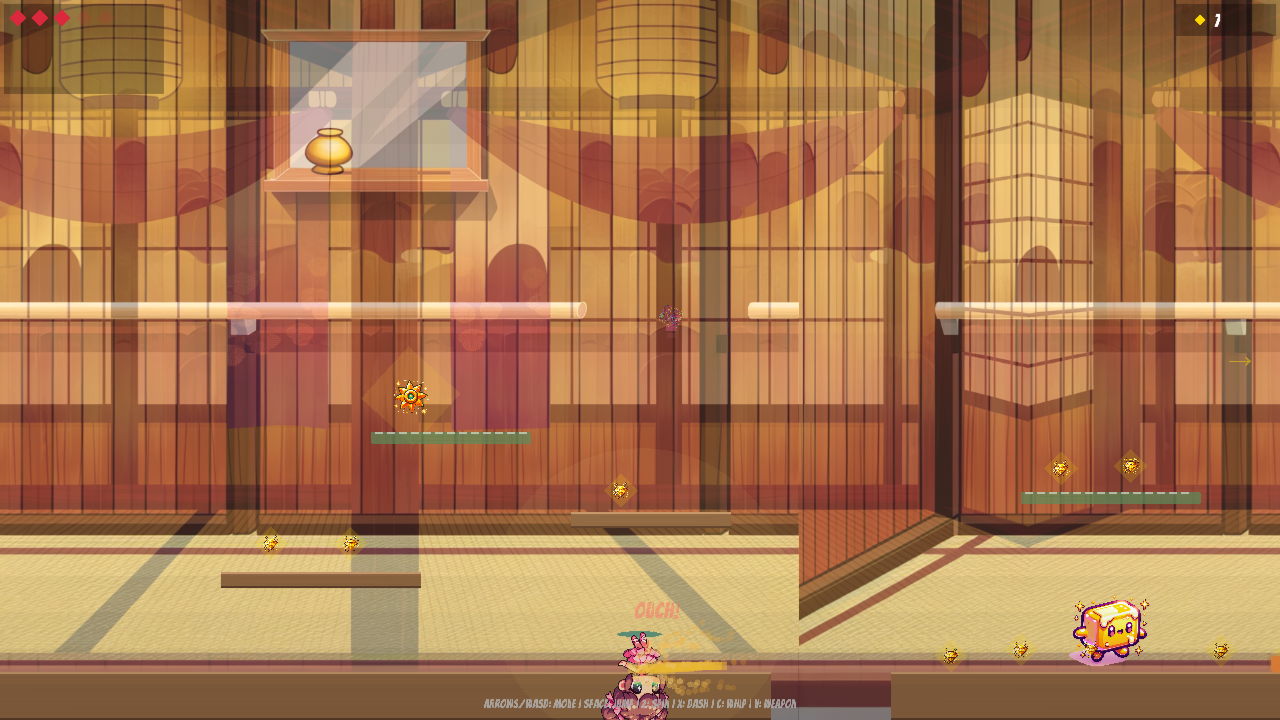
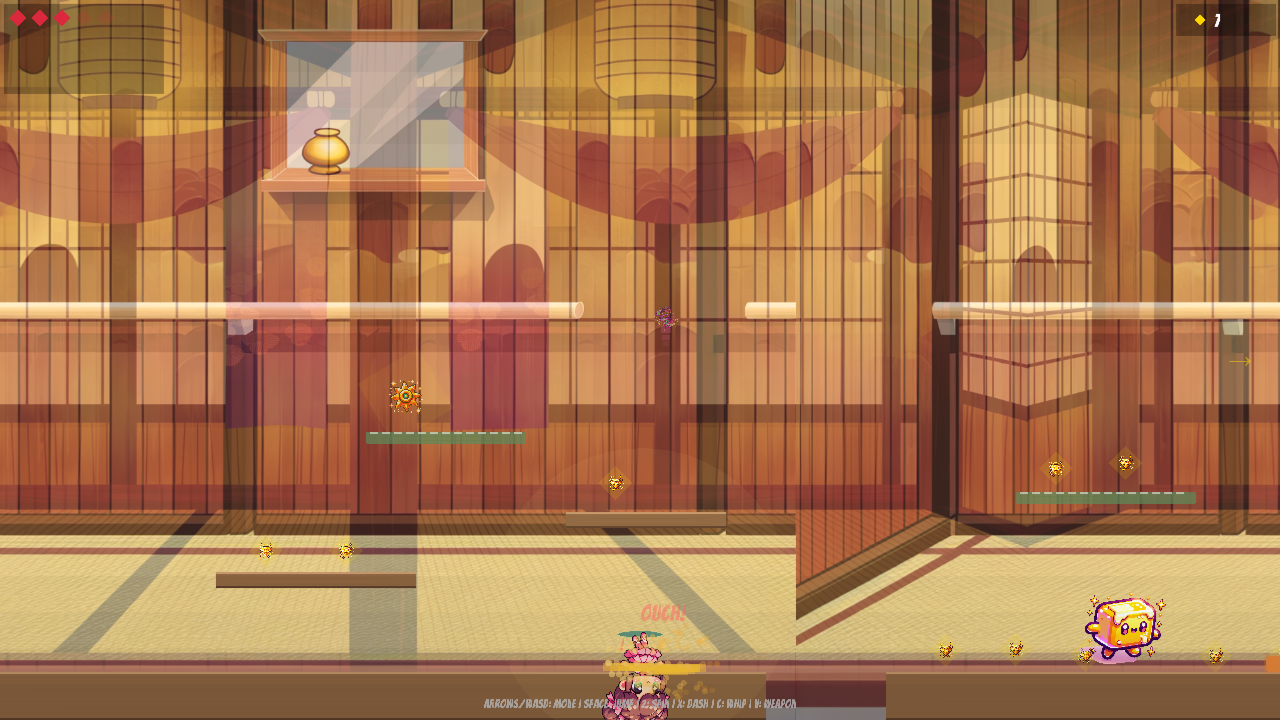
Checkpoints, skippable intro, softened mid-level spike
Three fixes driven by the iter-7 kid playtest ceiling.

Checkpoints:
- New CheckpointData type and levelData.checkpoints[] field
- Loader tracks a mutable currentSpawn that respawn logic reads (void
  fall handler and enemy-contact hitPlayer both now use it instead of
  levelData.playerSpawn)
- spawnCheckpoint renders a pole with a gray banner that turns gold on
  first touch, emits a CHECKPOINT! pop and a sparkle burst
- Hitbox is 80w x 160h so a jumping player mid-arc still intersects
- Level 1 placed checkpoints at x=1600 and x=1880 so the mid-level spike
  no longer sends you back to x=200

Intro flow:
- Cutscene: Escape now fully skips to the next scene instead of advancing
  one frame at a time; skip hint updated to 'SPACE/ENTER: next  ESC: skip'
- Title prompt: 'Press SPACE or ENTER to Start' (kid kept pressing Enter
  and wondering if it worked)

Mid-level difficulty:
- Narrow mid platforms widened: x=1900 w=180 → x=1880 w=240, and
  x=2200 w=160 → x=2180 w=220. Lands dash-jumps without precision-tapping.

Kid verified 8.5/10 (up from 7.6). All 32 regression checks still pass.

diff --git a/src/levels/loader.ts b/src/levels/loader.ts
@@ -4,7 +4,7 @@ import { createButterPat, createGlutenBlob, createSyrupDripper, createMilkCarton
 import { createNinjaPowerup, createSequin, createWeaponPickup, createRibbon } from "../entities/pickups"
 import { hitPlayer } from "../components/health"
 import { edgeFlash, popText } from "../components/effects"
-import type { LevelData, PlatformData, EnemySpawn, PickupSpawn, DestructibleData } from "./level1"
+import type { LevelData, PlatformData, EnemySpawn, PickupSpawn, DestructibleData, CheckpointData } from "./level1"
 
 function spawnPlatform(p: PlatformData) {
   if (p.type === "swing") {
@@ -192,6 +192,17 @@ export default function loadLevel(levelData: LevelData, levelId: string = "level
 
   const player = createPlayer(levelData.playerSpawn.x, levelData.playerSpawn.y)
 
+  // Active respawn point — updated when the player touches a checkpoint.
+  const currentSpawn = { x: levelData.playerSpawn.x, y: levelData.playerSpawn.y }
+
+  // Spawn checkpoint flags. A flag is a tall pole with a banner that turns
+  // gold once activated. Touching it updates currentSpawn and plays a pop.
+  if (levelData.checkpoints) {
+    for (const cp of levelData.checkpoints) {
+      spawnCheckpoint(cp, currentSpawn)
+    }
+  }
+
   // One-way platform logic: disable collision when player is clearly below
   player.onBeforePhysicsResolve((col: any) => {
     if (col.target.is("one-way")) {
@@ -248,11 +259,12 @@ export default function loadLevel(levelData: LevelData, levelId: string = "level
       // cannot re-fire on subsequent frames while the death animation
       // plays, then force-respawn bypassing invincibility/state checks so
       // a dash-clip or lingering invincible flag can't trap the player.
-      player.pos.x = levelData.playerSpawn.x
-      player.pos.y = levelData.playerSpawn.y
+      // Respawn at the active checkpoint, not the level start.
+      player.pos.x = currentSpawn.x
+      player.pos.y = currentSpawn.y
       player.vel.x = 0
       player.vel.y = 0
-      hitPlayer(player, levelData.playerSpawn.x, levelData.playerSpawn.y, levelId, true)
+      hitPlayer(player, currentSpawn.x, currentSpawn.y, levelId, true)
       return
     }
     // Horizontal bounds
@@ -371,7 +383,7 @@ export default function loadLevel(levelData: LevelData, levelId: string = "level
     // Otherwise take damage
     edgeFlash(255, 60, 60) // red = took damage
     popText(player.pos.x, player.pos.y - 40, "OUCH!", [255, 100, 100], 22)
-    hitPlayer(player, levelData.playerSpawn.x, levelData.playerSpawn.y)
+    hitPlayer(player, currentSpawn.x, currentSpawn.y)
   })
 
   // Slippery patch effect: active while overlapping
@@ -432,6 +444,63 @@ function spawnPickup(p: PickupSpawn) {
     case "katana": return createWeaponPickup(p.x, p.y, "katana")
     case "sais": return createWeaponPickup(p.x, p.y, "sais")
   }
+}
+
+function spawnCheckpoint(cp: CheckpointData, currentSpawn: { x: number; y: number }) {
+  // Pole
+  const pole = add([
+    rect(6, 90),
+    pos(cp.x, cp.y),
+    // Generous hitbox: 80 wide x 160 tall, centered on the pole, so a
+    // jumping player mid-arc still intersects even when their feet clear
+    // the pole base.
+    area({ shape: new Rect(vec2(-40, -160), 80, 160) }),
+    anchor("bot"),
+    color(80, 80, 100),
+    "checkpoint",
+    { activated: false },
+  ])
+  // Banner — starts gray, turns gold on activation
+  const banner = pole.add([
+    rect(28, 18, { radius: 2 }),
+    pos(3, -82),
+    color(160, 160, 170),
+    anchor("left"),
+    rotate(0),
+  ])
+  // Gentle wave
+  banner.onUpdate(() => {
+    banner.angle = Math.sin(time() * 2.5) * 6
+  })
+
+  pole.onCollide("player", () => {
+    if (pole.activated) return
+    pole.activated = true
+    banner.color = rgb(255, 215, 0)
+    currentSpawn.x = cp.x
+    currentSpawn.y = cp.y
+    popText(cp.x, cp.y - 110, "CHECKPOINT!", [255, 215, 0], 22)
+    // Sparkle burst
+    for (let i = 0; i < 10; i++) {
+      const angle = (i / 10) * Math.PI * 2
+      const spd = 80 + Math.random() * 40
+      const sp = add([
+        circle(2),
+        pos(cp.x, cp.y - 80),
+        color(255, 215, 0),
+        opacity(1),
+        z(60),
+      ])
+      let age = 0
+      sp.onUpdate(() => {
+        age += dt()
+        sp.pos.x += Math.cos(angle) * spd * dt()
+        sp.pos.y += Math.sin(angle) * spd * dt()
+        sp.opacity = Math.max(0, 1 - age * 2.5)
+        if (sp.opacity <= 0) destroy(sp)
+      })
+    }
+  })
 }
 
 function spawnDestructible(d: DestructibleData) {

diff --git a/src/levels/level1.ts b/src/levels/level1.ts
@@ -30,6 +30,11 @@ export interface DestructibleData {
   height: number
 }
 
+export interface CheckpointData {
+  x: number
+  y: number
+}
+
 export interface LevelData {
   name: string
   width: number
@@ -38,6 +43,7 @@ export interface LevelData {
   enemies?: EnemySpawn[]
   pickups?: PickupSpawn[]
   destructibles?: DestructibleData[]
+  checkpoints?: CheckpointData[]
   bgTint?: [number, number, number]
 }
 
@@ -65,9 +71,9 @@ const level1: LevelData = {
     { type: "one-way", x: 1150, y: FLOOR_Y - 180, width: 180, height: 12 },
     { type: "one-way", x: 1500, y: FLOOR_Y - 240, width: 150, height: 12 },
 
-    // Mid-level solid platforms
-    { type: "solid", x: 1900, y: FLOOR_Y - 200, width: 180, height: 16 },
-    { type: "solid", x: 2200, y: FLOOR_Y - 140, width: 160, height: 16 },
+    // Mid-level solid platforms — widened for forgiveness on the spike
+    { type: "solid", x: 1880, y: FLOOR_Y - 200, width: 240, height: 16 },
+    { type: "solid", x: 2180, y: FLOOR_Y - 140, width: 220, height: 16 },
 
     // Bouncy platform — teach the mechanic
     { type: "bouncy", x: 1400, y: FLOOR_Y - 16, width: 80, height: 16 },
@@ -143,6 +149,15 @@ const level1: LevelData = {
   destructibles: [
     { x: 1550, y: FLOOR_Y - 48, width: 48, height: 48 },
     { x: 2350, y: FLOOR_Y - 48, width: 48, height: 48 },
+  ],
+  checkpoints: [
+    // First checkpoint ~40% through: on the second floor segment, just
+    // before the 1720 floor gap. Saves a retry back to spawn if the kid
+    // dies on the upcoming mid-section.
+    { x: 1600, y: FLOOR_Y - 10 },
+    // Second checkpoint ~65% through: on the third floor segment, past
+    // the first hard gap. Anchors the mid-level spike.
+    { x: 1880, y: FLOOR_Y - 10 },
   ],
 }
 

diff --git a/src/scenes/cutscene.ts b/src/scenes/cutscene.ts
@@ -47,10 +47,10 @@ export default function cutscene(data: CutsceneData) {
   ])
 
   const skipHint = add([
-    text("Press SPACE or ENTER to skip", { size: 14, font: "Bangers" }),
+    text("SPACE / ENTER: next    ESC: skip intro", { size: 14, font: "Bangers" }),
     pos(SCREEN.WIDTH / 2, SCREEN.HEIGHT - 40),
     anchor("center"),
-    color(150, 150, 150),
+    color(200, 200, 200),
     fixed(),
     z(1),
   ])
@@ -127,6 +127,11 @@ export default function cutscene(data: CutsceneData) {
 
   onKeyPress("space", advance)
   onKeyPress("enter", advance)
+  // Escape jumps straight to the next scene, no more frame-by-frame mash.
+  onKeyPress("escape", () => {
+    frameIndex = data.frames.length
+    fadeOut(0.3, () => go(data.nextScene))
+  })
 
   void skipHint
 }

diff --git a/src/scenes/title.ts b/src/scenes/title.ts
@@ -60,7 +60,7 @@ export default function title() {
   ])
 
   const prompt = add([
-    text("Press SPACE to Start", { size: 20, font: "Bangers" }),
+    text("Press SPACE or ENTER to Start", { size: 24, font: "Bangers" }),
     pos(SCREEN.WIDTH / 2, SCREEN.HEIGHT - 100),
     anchor("center"),
     color(255, 255, 255),
